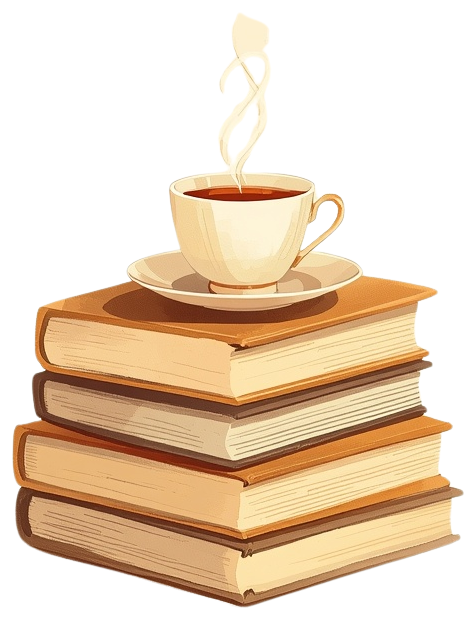
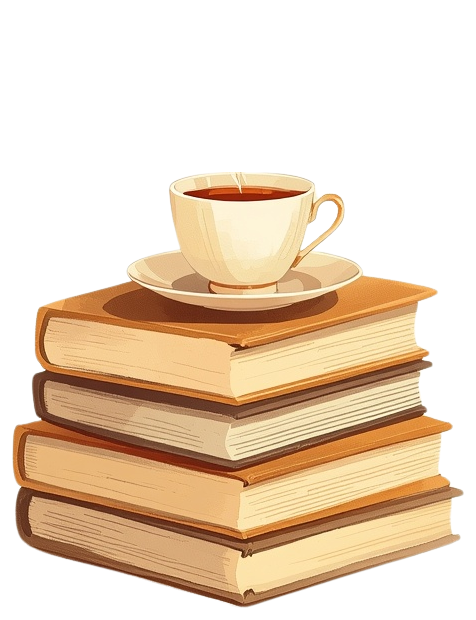
Add files via upload

Changed region(s): [[0.4412, 0.0, 0.5882, 0.2758], [0.4412, 0.1226, 0.4706, 0.1532]]

diff --git a/index.html b/index.html
@@ -337,7 +337,8 @@
   /* ── cozy touch: tea, books and candle ── */
   .hero > .hero-body, .hero > .cozy{ position: relative; z-index: 1; }
     .cozy{ flex: 1; display:flex; justify-content:center; align-self: center; min-width: 220px; }
-  .cozy img{ width: 100%; max-width: 260px; height: auto; filter: drop-shadow(0 10px 14px rgba(58,42,28,0.10)); }
+  .cup-wrap{ position: relative; width: 100%; max-width: 260px; }
+  .cozy img{ display:block; width: 100%; height: auto; filter: drop-shadow(0 10px 14px rgba(58,42,28,0.10)); }
   .steam{ opacity: 0; animation: steam 4.2s ease-in-out infinite; }
   .steam.s2{ animation-delay: 1.4s; } .steam.s3{ animation-delay: 2.8s; }
   @keyframes steam{ 0%{ opacity:0; transform: translateY(8px); } 35%{ opacity:.55; } 100%{ opacity:0; transform: translateY(-14px); } }
@@ -345,8 +346,21 @@
   @keyframes flicker{ 0%,100%{ transform: scale(1,1) rotate(0deg); } 30%{ transform: scale(.94,1.06) rotate(-2deg); } 60%{ transform: scale(1.03,.95) rotate(1.5deg); } }
   .cglow{ animation: cglow 2.2s ease-in-out infinite; }
   @keyframes cglow{ 0%,100%{ opacity: 1; } 50%{ opacity: .75; } }
+
+  .steam-svg{ position:absolute; left: 38.5%; width: 22%; top: -4%; height: 32%; overflow: visible; pointer-events:none; }
+  .wisp{ stroke: #ecd3a2; stroke-width: 13; stroke-dasharray: 85 115; opacity: 0;
+    animation: wispRise 5.5s linear infinite; }
+  .wisp.w2{ stroke: #f2dfb8; stroke-width: 10; animation-duration: 6.5s; animation-delay: -2.2s; }
+  .wisp.w3{ stroke: #e6cb96; stroke-width: 8; animation-duration: 7.2s; animation-delay: -4.1s; }
+  @keyframes wispRise{
+    0%{ stroke-dashoffset: 0; opacity: 0; transform: translateX(0); }
+    15%{ opacity: .95; }
+    55%{ transform: translateX(4px); }
+    80%{ opacity: .55; }
+    100%{ stroke-dashoffset: -200; opacity: 0; transform: translateX(-4px); }
+  }
   @media (max-width: 900px){ .cozy{ display:none; } }
-  @media (prefers-reduced-motion: reduce){ .steam, .flame, .cglow{ animation: none; } .steam{ opacity:.4; } }
+  @media (prefers-reduced-motion: reduce){ .wisp{ animation:none; opacity:.6; stroke-dashoffset: -70; } .steam, .flame, .cglow{ animation: none; } .steam{ opacity:.4; } }
 </style>
 </head>
 <body>
@@ -749,7 +763,7 @@ function pickDailySimile(offsetDays, salt){
   return pool[hash % pool.length];
 }
 
-const COZY_HTML = '<div class="cozy" aria-hidden="true"><img src="teabooks.png" alt=""></div>';
+const COZY_HTML = '<div class="cozy" aria-hidden="true"><div class="cup-wrap"><img src="teabooks.png" alt=""><svg class="steam-svg" viewBox="0 0 100 200" preserveAspectRatio="none"><defs><filter id="steamBlur" x="-50%" y="-20%" width="200%" height="140%"><feGaussianBlur stdDeviation="4"/></filter></defs><g filter="url(#steamBlur)" fill="none" stroke-linecap="round"><path pathLength="200" class="wisp w1" d="M50 198 C38 170 64 150 50 122 C36 94 62 74 48 46 C40 30 52 18 50 4"/><path pathLength="200" class="wisp w2" d="M44 198 C30 172 58 148 42 120 C28 92 54 70 40 42 C34 28 44 16 42 4"/><path pathLength="200" class="wisp w3" d="M56 198 C70 170 44 146 60 118 C74 92 48 68 62 40 C68 26 58 14 60 4"/></g></svg></div></div>';
 function renderHome(){
   const today = pickDailySimile(0);
   $("todayDate").textContent = "Today’s simile · " + new Date().toLocaleDateString(undefined, {day:"numeric", month:"long"});
